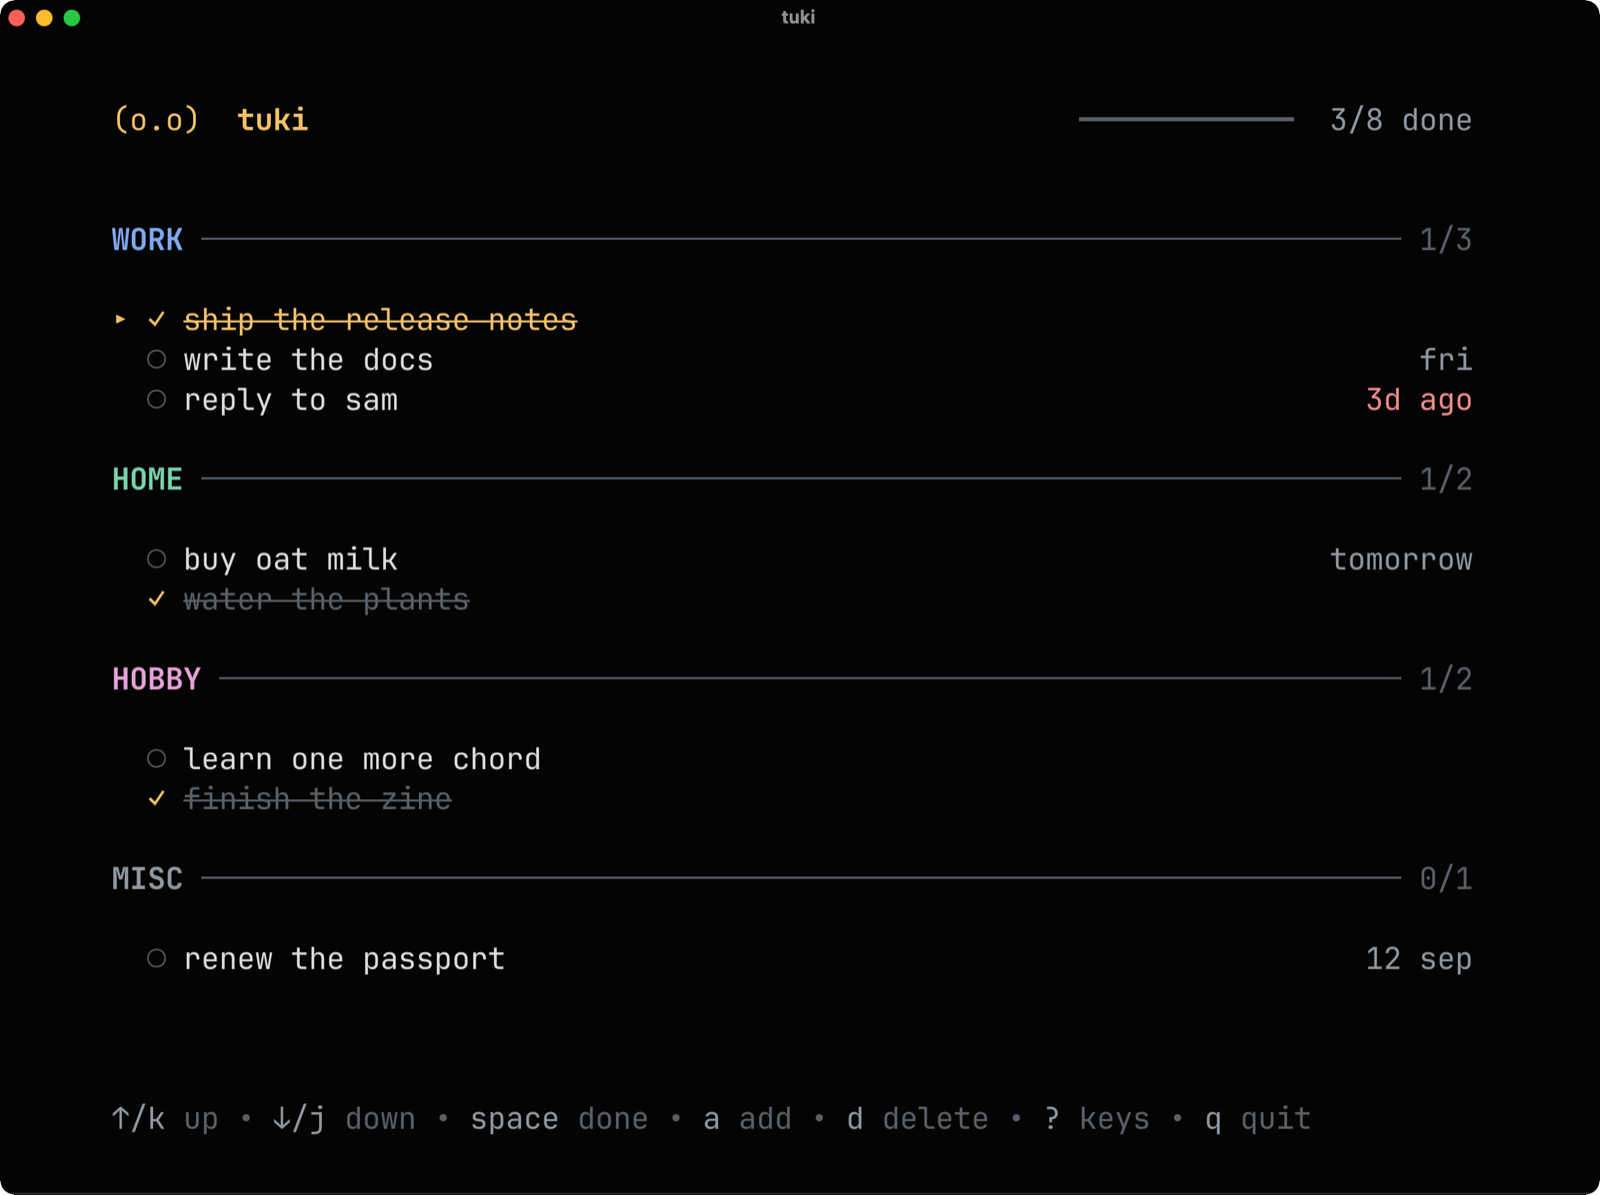
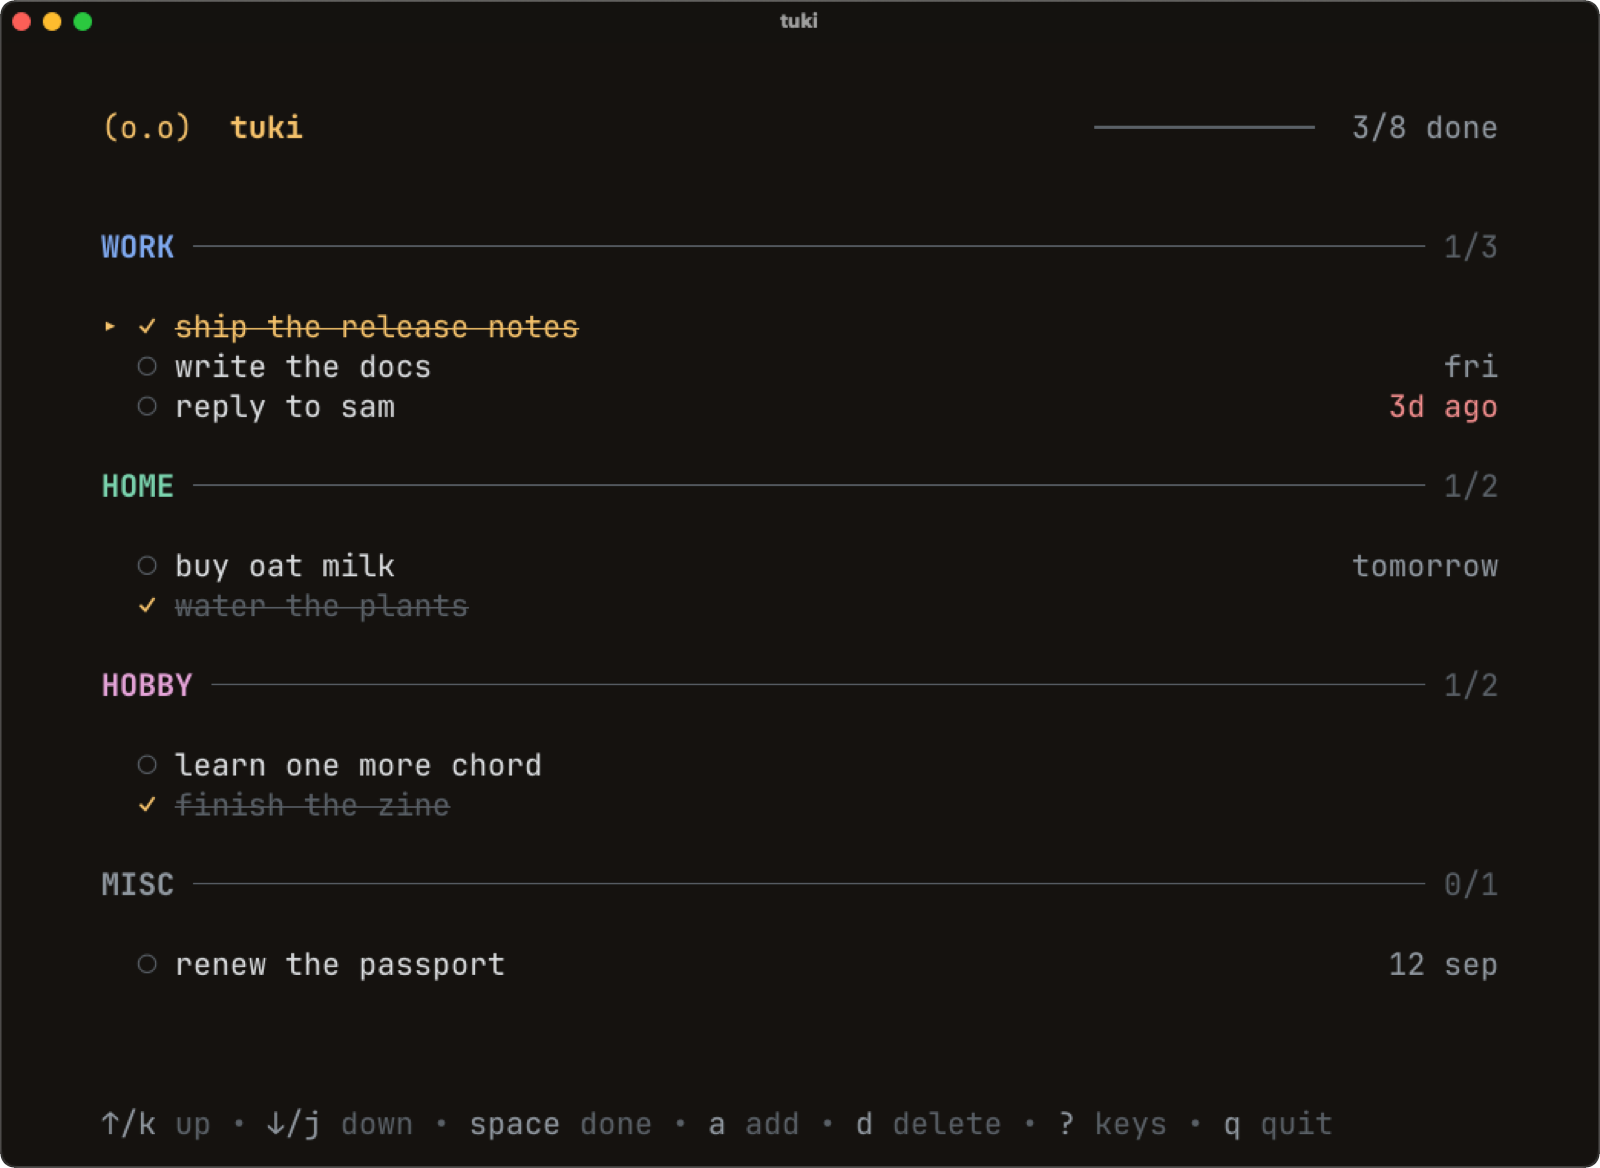
site: a screenshot that belongs to the page, and a sibling
Two things, both noticed by looking at the two sites side by side.

The screenshot was shot on Ghostty's near-black default, #040404, while
the page around it is #14120f — a warmer, lighter dark. So the image
read as a rectangle sitting on the page rather than part of it. It's
now captured on the site's own background, which is what mori's does.

And the site never mentioned mori. tuki has a sibling and a visitor
had no way to find out; there's now a pair — amber and green, eyes open
and eyes closed — with a link, and a line in the topbar.

The screenshot runbook also drops two pieces of advice that turned out
to be bad. It said to pkill Ghostty first so the new window doesn't
open as a tab: do that while working inside Ghostty and you kill your
own shell. `open -na` is enough, and you close it by PID. And it said
to capture the whole display and crop with hand-measured offsets, which
leaves a file with your entire desktop in it; asking System Events for
the window's rectangle means that file is never created, and it handles
a window that opened on a second display, where the coordinates come
back negative.

diff --git a/docs/index.html b/docs/index.html
@@ -29,6 +29,7 @@
       <li><a href="#install">install</a></li>
       <li><a href="#using">using it</a></li>
       <li><a href="#why">why</a></li>
+      <li><a href="#mori">mori</a></li>
     </ul>
     <a class="topbar-gh" href="https://github.com/rmpato/tuki">GitHub</a>
   </div>
@@ -245,6 +246,34 @@
     tuki doesn't mean anything. That's the point — it leaves room for a creature.
   </blockquote>
   </div>
+</section>
+
+<!-- ----------------------------------------------------------- sibling -->
+<section class="wrap sibling" id="mori">
+  <div class="section-head">
+    <h2>tuki has a sibling</h2>
+    <p>Same design language, opposite direction.</p>
+  </div>
+
+  <div class="pair">
+    <div class="is-tuki">
+      <span class="pair-face" aria-hidden="true">(o.o)</span>
+      <h3>tuki</h3>
+      <p class="pair-q">What do I need to do?</p>
+      <p>Tasks, tags, due dates. Eyes open, pointed forwards.</p>
+    </div>
+    <div class="is-mori">
+      <span class="pair-face" aria-hidden="true">(-.-)</span>
+      <h3><a href="https://rmpato.github.io/mori/">mori</a></h3>
+      <p class="pair-q">What happened?</p>
+      <p>A journal, one Markdown file per day. Eyes closed, pointed backwards.</p>
+    </div>
+  </div>
+
+  <p class="pair-note"><strong>tuki helps you move forward. mori helps you look
+  back.</strong> Each works perfectly with the other uninstalled; if you have
+  both, mori can show you what you got done on a day while you write about it —
+  read-only, and never turned into prose for you.</p>
 </section>
 
 <!-- ------------------------------------------------------------ built -->

diff --git a/docs/style.css b/docs/style.css
@@ -623,3 +623,37 @@ footer {
   margin-bottom: 0.8rem;
 }
 footer p { margin: 0.3rem 0; font-size: 0.9rem; color: var(--muted); }
+
+
+/* --------------------------------------------------------------- sibling --
+   tuki's other half. The palette borrows mori's green for its side, so the
+   two sites tell the same story in the same colours. */
+
+.sibling { padding: 3rem 0 1rem; }
+
+.pair {
+  display: grid;
+  grid-template-columns: 1fr;
+  border: 1px solid var(--line);
+  border-radius: var(--radius);
+  overflow: hidden;
+  margin-top: 1.5rem;
+}
+@media (min-width: 40rem) { .pair { grid-template-columns: 1fr 1fr; } }
+
+.pair > div { padding: 1.6rem 1.5rem; background: var(--bg-soft); }
+.pair > div + div { border-top: 1px solid var(--line); }
+@media (min-width: 40rem) {
+  .pair > div + div { border-top: 0; border-left: 1px solid var(--line); }
+}
+
+.pair-face { font-family: var(--mono); font-size: .8rem; color: var(--faint); }
+.pair h3 { margin: .4rem 0 .15rem; font-size: 1.5rem; }
+.pair .is-tuki h3 { color: var(--brand); }
+.pair .is-mori h3 a { color: #86c79a; text-decoration: none; }
+.pair .is-mori h3 a:hover { text-decoration: underline; text-underline-offset: 3px; }
+.pair-q { font-style: italic; color: var(--text); margin: 0 0 .5rem; }
+.pair p { font-size: .95rem; color: var(--muted); }
+
+.pair-note { margin-top: 1.4rem; color: var(--muted); font-size: .97rem; }
+.pair-note strong { color: var(--text); }

diff --git a/runbooks/screenshot.md b/runbooks/screenshot.md
@@ -8,6 +8,14 @@ gotchas are worth reading first.
 
 - **Never use your own tasks.** Point tuki at a throwaway file with
   `TUKI_HOME`. Your real list stays untouched and out of the picture.
+- **Set the terminal background to tuki's page background** — `#14120f`, with
+  `#e8e3da` in front of it. Ghostty's default is nearly black, which sits on
+  the site as a colder, darker rectangle instead of belonging to it. mori's
+  screenshot does the same with its own `#111410`.
+- **Never `pkill` Ghostty to avoid the tab problem.** If you're running inside
+  Ghostty — and if you're reading this in a terminal, you probably are — that
+  takes your shell and anything running in it with you. Open a second instance
+  and close it by PID. See the gotchas.
 - **84×27 cells.** Wide enough for tuki's 76-column layout with a margin,
   27 rows so all four groups fit without scrolling. Recount if you change the
   demo tasks: header 4 + footer 2 + 5 lines per group + 1 per task.
@@ -53,32 +61,46 @@ command = $WORK/run.sh
 window-save-state = never
 window-width = 84
 window-height = 27
-font-size = 22
+window-position-x = 120
+window-position-y = 120
+font-size = 20
 window-padding-x = 18
 window-padding-y = 16
+background = #14120f
+foreground = #e8e3da
 title = tuki
 EOF
 
-pkill -9 -f "MacOS/ghostty"; sleep 2
+BEFORE=$(ps -Ao pid,comm | grep 'MacOS/ghostty' | awk '{print $1}' | tr '\n' '|' | sed 's/|$//')
 open -na Ghostty --args --config-file="$WORK/ghostty.conf"
-sleep 5
-screencapture -x -o -D 1 "$WORK/full.png"     # -D picks the display
+sleep 6
+PID=$(ps -Ao pid,comm | grep 'MacOS/ghostty' | awk '{print $1}' | grep -vE "^(${BEFORE})$" | head -1)
 ```
 
-Then crop to the window, scale to 1600px wide, and round the corners:
+Ask macOS where that window is, rather than measuring it by hand, and capture
+exactly that rectangle — nothing else on your screen ends up in the file:
 
 ```sh
-sips --cropOffset <Y> <X> -c <H> <W> "$WORK/full.png" --out "$WORK/crop.png"
-sips -Z 1600 "$WORK/crop.png" --out docs/screenshot.png
-sips -s format bmp docs/screenshot.png --out /tmp/shot.bmp
-python3 tools/round_corners.py /tmp/shot.bmp docs/screenshot.png 14
+osascript -e "tell application \"System Events\" to tell (first process whose unix id is $PID) \
+  to get {position, size} of front window"
+# 120, 158, 1044, 762
+
+screencapture -x -o -R 120,158,1044,762 "$WORK/win.png"
 ```
 
-Finally, **delete the full-screen capture** — it has your whole desktop in it:
+Then scale to 1600px wide and round the corners:
 
 ```sh
-rm -rf "$WORK" /tmp/shot.bmp
-pkill -9 -f "MacOS/ghostty"
+sips -Z 1600 "$WORK/win.png" --out "$WORK/scaled.png"
+sips -s format bmp "$WORK/scaled.png" --out "$WORK/scaled.bmp"
+python3 tools/round_corners.py "$WORK/scaled.bmp" docs/screenshot.png 14
+```
+
+Finally, close **only your window**:
+
+```sh
+kill "$PID"
+rm -rf "$WORK"
 ```
 
 ## Gotchas
@@ -92,13 +114,16 @@ script.sh` raises a macOS "Allow Ghostty to execute…" dialog, which lands on
 top of the window you're trying to photograph. `command =` in a config file
 doesn't.
 
-**Quit Ghostty completely first.** Otherwise the new window opens as a *tab*
-in the existing one, and the tab bar steals two rows.
+**Don't quit Ghostty to avoid the tab problem.** `open -na` opens a separate
+instance, which is enough; close that one by PID. Quitting takes your own
+session with it.
 
-**The window may open on another display or Space.** `screencapture` only sees
-one display at a time; try `-D 1`, `-D 2`, `-D 3`. On a non-Retina external
-monitor the result is half the resolution — prefer the built-in display, or
-double `font-size` to compensate.
+**Capture the window, not the screen.** `screencapture` with no `-R` takes the
+whole display, which means a file containing your desktop that you then have
+to remember to delete. Asking System Events for the window rect means that
+file never exists — and it works even when the window opens on another
+display, where the coordinates come back negative and `-R` handles them
+anyway.
 
 **Round the corners.** The window's own rounded corners let a sliver of
 whatever was behind show through at each corner. `tools/round_corners.py`
@@ -108,6 +133,8 @@ can't fix it with CSS the way the site can.
 ## Check
 
 - 1600px wide, a couple of hundred KB at most.
+- The background matches the site's `--bg`. Sample a pixel if unsure; it
+  should read `#14120f`, not near-black.
 - All four group headings present, and the footer key hints visible.
 - Corners transparent, no desktop showing.
 - Nothing of yours in the frame.
